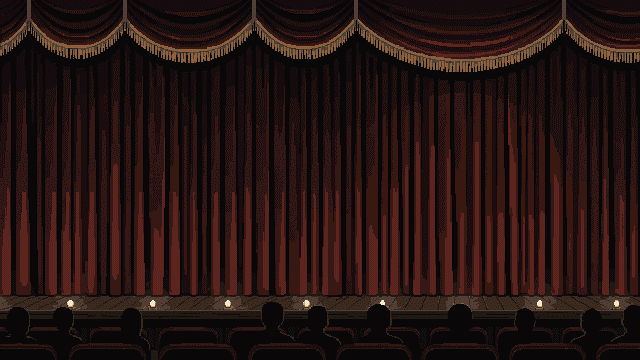
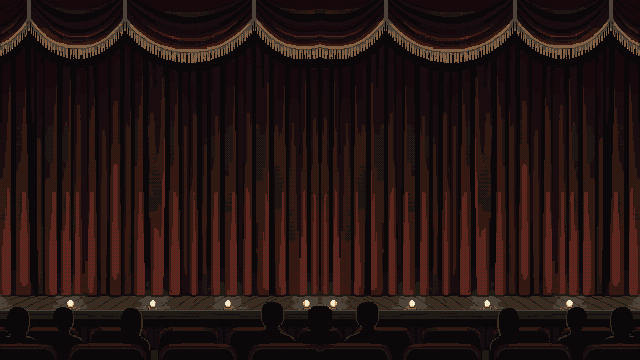
Centre the title curtain and make its swags symmetric
The title backdrop became a single full-frame pixen painting on 2026-08-13,
and a model asked for a proscenium does not draw one. Measured: 46.9% of
pixels differed from their own mirror by more than 20 levels, the swag
gathers sat at x 26/122/253/355/565 (spans of 96, 131, 102, then a 210-wide
swag drooping 20px lower than its neighbours), and each frame edge cut a
different fraction of a different swag.

pixelise_menu.py gains --mirror: keep the source's left half and mirror it,
which is --from-half's symmetry without its unsign() patch (that patch is
aimed at a pixflux half's own signature, and a full-frame painting signs the
half this throws away). The axis must land on a swag's LOW point - the join
carries the source's slope, so the window that puts a gather on both frame
edges instead drew an inverted-V spike dead centre.

Structural symmetry after: 0.06% of 4x4 blocks differ by more than 8 levels,
against 46.9% of pixels before. The residual is Bayer phase, which is right -
a mirrored dither would read as the seam the picture no longer has.

diff --git a/scripts/pixelise_menu.py b/scripts/pixelise_menu.py
@@ -20,6 +20,32 @@ THREE SOURCES, ONE OUTPUT:
                  1280x720 by `--menuref`, reduced by exactly 2. Guaranteed to match
                  TOSSA, and the fallback if generated art is ever rejected.
   --from <png>   any 640x360 image.
+  --mirror       modifier on any of the above: keep the source's LEFT half and mirror
+                 it. THIS IS WHAT THE SHIPPED BAKE USES (2026-08-19, Louis: the title
+                 "is not centered: the edges of the curtain are missing and the bows
+                 aren't symmetric"). The 2026-08-13 rewrite made this a single
+                 full-frame pixen painting, and a model asked for a proscenium does not
+                 draw one: measured on that painting, 46.9% of pixels differed from
+                 their own mirror by more than 20 levels, the swag gathers sat at x
+                 26/122/253/355/565 - spans of 96, 131, 102 and then a 210-wide swag
+                 drooping 20px lower than its neighbours - and both frame edges cut a
+                 different fraction of a different swag.
+                 **A PROSCENIUM IS ARCHITECTURE, SO ITS ASYMMETRY IS NOT CHARACTER, IT
+                 IS AN ERROR**, and this is the one picture in the game where the
+                 retired mirror is still right: the note that retired it (CLAUDE.md,
+                 "A FULL-FRAME PICTURE IS ONE GENERATION NOW") retired it for the seven
+                 VENUES, whose whole problem was a focal seam down the middle. This
+                 picture's middle is deliberately an empty stage, which is exactly the
+                 exemption the --from-half block below was written for.
+                 **THE AXIS IS NOT A FREE CHOICE - IT MUST LAND ON A SWAG'S LOW POINT.**
+                 The mirror meets itself with the source's own slope at that column, so
+                 an axis on a rising arc makes a sharp inverted-V spike where the two
+                 halves join. Measured on this painting: mirroring the left half puts
+                 the axis at the bottom of the 253..387 swag and the join is invisible,
+                 while shifting the window 26px right (to land a gather on each frame
+                 edge, which is the more literal reading of "the edges of the curtain")
+                 put the axis on a rising arc and drew a spike dead centre. Symmetric
+                 and smooth beat symmetric and edge-aligned.
 
 WHY NOT ONE 640x360 GENERATION. It was tried (create_image_pro, 40 generations) and the
 model returned a 516x360 picture padded with WHITE to fill the canvas. Stretching 516 to
@@ -131,8 +157,19 @@ def unsign(a: np.ndarray) -> np.ndarray:
 	return a
 
 
-def build(src: Path, write: bool, force: bool, half: bool = False) -> str:
+def build(src: Path, write: bool, force: bool, half: bool = False, mirror: bool = False) -> str:
 	im = Image.open(src).convert("RGB")
+	if mirror:
+		# --mirror: take a FULL-FRAME painting's left half and mirror it, which is
+		# --from-half's symmetry without --from-half's unsign() patch (that patch is
+		# aimed at a pixflux half's own bottom-right signature; a full-frame pixen
+		# painting signs the bottom-right of the FULL frame, in the half this throws
+		# away, so applying it here would scrub real picture instead).
+		a = np.asarray(im).astype(np.uint8)
+		if a.shape[1] != ART_W:
+			raise SystemExit(f"{src.name}: --mirror wants a {ART_W}-wide source, got {im.size}")
+		h = a[:, :ART_W // 2]
+		im = Image.fromarray(np.concatenate([h, h[:, ::-1]], axis=1), "RGB")
 	if half:
 		if im.size != (ART_W // 2, ART_H):
 			raise SystemExit(f"{src.name}: --from-half wants {ART_W//2}x{ART_H}, got {im.size}")
@@ -160,6 +197,7 @@ def main() -> int:
 	write = "--write" in sys.argv
 	force = "--force" in sys.argv
 	src, half = REF, False
+	mirror = "--mirror" in sys.argv
 	if "--from" in sys.argv:
 		src = Path(sys.argv[sys.argv.index("--from") + 1])
 	if "--from-half" in sys.argv:
@@ -168,7 +206,7 @@ def main() -> int:
 	if not src.exists():
 		raise SystemExit(f"missing {src} - capture it with:  godot --path . -- --menuref "
 						 f"--shot artifacts/menu_ref/menu.png --shotat 40")
-	print(build(src, write, force, half))
+	print(build(src, write, force, half, mirror))
 	if not write:
 		print("(pass --write to apply)")
 	return 0

diff --git a/CLAUDE.md b/CLAUDE.md
@@ -207,6 +207,26 @@ screen pixels tall and some three. Callers that place hands themselves must snap
   the centre"), and the rule that asymmetric outdoor venues could not be generated at all. All
   seven backdrops and all seven exteriors are single paintings; `scripts/pixelise_paint.py`
   reduces them and `scripts/fetch_paint.sh` downloads them.
+  **THE TITLE SCREEN IS THE ONE EXEMPTION, AND IT WAS LOST WHEN THE MIRROR WAS RETIRED**
+  (2026-08-19, Louis: the title "is not centered: the edges of the curtain are missing and
+  the bows aren't symmetric"). The retirement above is about the seven VENUES, whose problem
+  was a focal seam down the middle; `ui/menu_backdrop`'s middle is deliberately an empty
+  stage, which is the exemption `pixelise_menu.py`'s own `--from-half` block was written for.
+  Regenerating it full-frame silently dropped that. Measured on the 2026-08-13 painting:
+  **46.9% of pixels differed from their own mirror by more than 20 levels**, the swag gathers
+  sat at x 26/122/253/355/565 - spans of 96, 131, 102, then a 210-wide swag drooping 20px
+  lower than its neighbours - and each frame edge cut a different fraction of a different
+  swag. **A proscenium is architecture, so its asymmetry is not character, it is an error**,
+  and no amount of re-rolling gets a model to draw evenly spaced swags. `--mirror` on any
+  source is the fix and the bake is now made with it.
+  **AND THE AXIS IS NOT A FREE CHOICE: IT MUST LAND ON A SWAG'S LOW POINT.** The mirror meets
+  itself carrying the source's slope at that column, so an axis on a rising arc joins the two
+  halves into a sharp inverted-V spike. Louis's words point at the outer edges, so the obvious
+  window is the one that lands a gather on x=0 and x=640 - and measured, that puts the axis on
+  a rising arc and draws a spike dead centre, while the plain left half lands on the bottom of
+  the 253..387 swag and joins invisibly. **Symmetric and smooth beat symmetric and
+  edge-aligned**, and the outer swags stay part-cut on both sides, which is what a valance
+  running behind a proscenium actually does.
 - **Pixen cannot force a palette, so the reducer does it** in Oklab with serpentine
   Floyd-Steinberg. **Judge whether a painting will survive that by the TAIL, not the mean**: a
   good picture and a badly broken one measured 0.028 against 0.034 mean distance, a 1.2x spread
